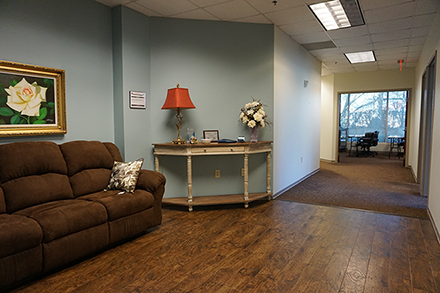
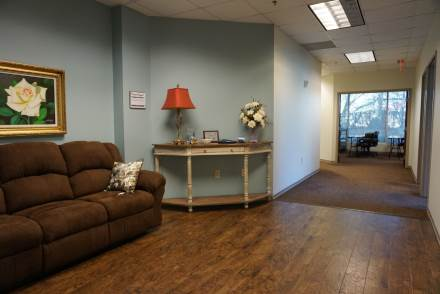
Added some responsive elements like Picture tag and media queries

diff --git a/index.html b/index.html
@@ -4,6 +4,7 @@
     <title>CCA News Network</title>
     <!--<link href="/css/normalize.css" rel="stylesheet">-->
     <link href="/css/styles.css" rel="stylesheet">
+    <meta name="viewport" content="width=device-width, initial-scale=1">
 </head>
 <body>
 
@@ -29,7 +30,16 @@
                 Lorem ipsum dolor sit amet, consectetur adipiscing elit. Aenean volutpat sapien sodales ante congue, eget faucibus nulla placerat. Nam gravida commodo felis iaculis mollis. Integer dolor ipsum, blandit posuere congue nec, viverra tincidunt nisi. Lorem ipsum dolor sit amet, consectetur adipiscing elit. Nam cursus felis nunc, eget mollis dolor feugiat eu. Suspendisse potenti. Fusce nunc ante, semper varius tortor aliquet, dapibus vulputate eros. Morbi vel mollis dolor. Fusce quis luctus leo. Proin tempor lectus leo, sit amet molestie sapien sagittis at. Sed hendrerit tincidunt sapien. Pellentesque luctus, nisi et semper suscipit, orci lacus condimentum justo, eget ultrices libero velit vel mi. Lorem ipsum dolor sit amet, consectetur adipiscing elit. Praesent rhoncus ullamcorper ligula, a sodales lorem volutpat in. Sed blandit lectus nec leo scelerisque cursus. Donec facilisis, est non congue semper, ligula diam sollicitudin lectus, eu bibendum nisi neque ut erat.
             </p>
             <figure>
-                <img src="/images/cca-entrance-440.jpg" alt="CCA Entrance">
+
+
+                <picture>
+                    <source media="(min-width: 500px)" srcset="/images/cca-entrance-880.jpg, /images/cca-entrance-1760.jpg 2x">
+                    <source media="(min-width: 450px)" srcset="/images/cca-entrance-440.jpg, /images/cca-entrance-880.jpg 2x">
+                    <source media="(max-width: 400px)" srcset="/images/cca-entrance-220.jpg, /images/cca-entrance-440.jpg 2x">
+                    <img src="/images/cca-entrance-1760.jpg" alt="Code Career Academy Entrance">
+                </picture>
+                <!--<img src="/images/cca-entrance-1760.jpg" alt="Code Career Academy Entrance">-->
+
                 <figcaption>The Entrance for Code Career Academy
                 </figcaption>
             </figure>

diff --git a/css/styles-not-responsive.css b/css/styles-not-responsive.css
@@ -11,8 +11,6 @@ main, section, article, aside, footer, header, nav, hgroup {
 body {
     background-color: rgb(25,52,65);
     color: rgb(252,255,245);
-    max-width: 1200px;
-    margin: 0 auto;
 }
 
 header, article, aside {
@@ -23,10 +21,6 @@ header {
     margin-bottom: .5rem;
 }
 
-article {
-    padding: .5rem;
-}
-
 aside section {
     background-color: rgb(145,170,157);
     padding: 1rem;
@@ -34,7 +28,7 @@ aside section {
 }
 
 .main-logo img {
-    height: 60px;
+    height: 70px;
 }
 
 figure {
@@ -53,6 +47,17 @@ figure img {
     width: 100%;
     margin: 0;
     padding: 0;
+}
+
+main {
+    width: 68.5%;
+    float: left;
+    margin-right: 1rem;
+}
+
+aside {
+    width: 30%;
+    float: left;
 }
 
 h1 {
@@ -99,62 +104,4 @@ aside a:visited {
 a:hover {
     color: rgb(252,255,245);
     text-decoration: underline;
-}
-
-@media print {
-    body, header, main, aside, section, article, aside section {
-        background-color: white;
-        color: black;
-    }
-
-    nav ul {
-        display: none;
-    }
-
-    article h1 {
-        text-decoration: underline;
-    }
-
-}
-
-/*@media (min-width: 800px) and (max-width: 1024px) {
-    body, header, main, aside, section, article, aside section {
-        background-color: red;
-        color: yellow;
-    }
-}*/
-
-@media (min-width: 700px) {
-    figure {
-        float:left;
-        width: 50%;
-    }
-}
-
-@media screen and (min-width: 800px) {
-    main {
-        width: 68.5%;
-        float: left;
-        margin-right: 1rem;
-    }
-
-    aside {
-        width: 30%;
-        float: left;
-    } 
-
-    .main-logo img {
-        height: 70px;
-    }   
-}
-
-@media (min-resolution: 166dpi) and (min-width: 1600px) {
-    /*body, header, main, aside, section, article, aside section {
-        background-color: red;
-        color: yellow;
-    }*/
-    body {
-        max-width: 1600px;
-        font-size: 3rem;
-    }
 }
